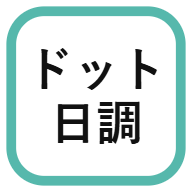
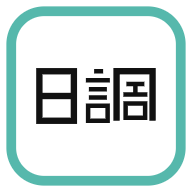
feat: アイコンを描き起こし、タスクのあて先に「自分」を足す
- アイコンはフォント指定をやめ、「日調」の字画を線で組んだベクターにした。
  端末に入っている書体で見た目が変わらなくなり、太さも字間も直接持てる
- ホーム画面に出る名前（short_name）もアイコンと同じ「日調」にそろえた
- タスクを追加のあて先に「自分」を追加。他の選び方は自分を必ず外すため、
  支部に自分しか居ないと、どのあて先を選んでも0人になり送れなかった
- あて先が0人のときの案内を、選び方ごとの言い方に直した。
  「支部の全スタッフ」で0人なら、あて先を選び直しようがなかったため

Changed region(s): [[0.1875, 0.25, 0.8125, 0.75], [0.2812, 0.25, 0.375, 0.3125]]

diff --git a/index.html b/index.html
@@ -5024,6 +5024,7 @@ let REQFORM=null; // {mode, picked:Set相当の配列}
    ※ 残る2つの mode を処理する側のコードは、過去の依頼を読むために残してある */
 const REQ_MODES=[
   {id:'public',label:'誰でも回答OK'},
+  {id:'me',          label:'自分'},
   {id:'all_staff',   label:'支部の全スタッフ'},
   {id:'pick_staff',  label:'スタッフを選ぶ'},
   {id:'by_dept',     label:'部署で選ぶ'},
@@ -5062,6 +5063,9 @@ function branchInterns(){
 function resolveRecipients(){
   const m=REQFORM.mode, picked=REQFORM.picked;
   if(m==='public')return {ids:[ME.id],label:'誰でも回答OK'};
+  /* 自分あて。やることを自分の一覧へ置いておくための口で、
+     他の選び方では自分を必ず外している（下の filter）ので、ここだけ別に用意する */
+  if(m==='me')return {ids:[ME.id],label:'自分'};
   if(m==='all_staff'){
     const list=branchStaff().filter(u=>u.id!==ME.id);  // 自分あては含めない
     return {ids:list.map(u=>u.id),label:'支部の全スタッフ'};
@@ -5103,7 +5107,7 @@ function reqPickerHTML(){
   /* 「支部の全スタッフ」「支部の全インターン生」は選ぶものが無い。
      以前は届く人数を書いた案内を出していたが、説明文はすべて外す方針にしたので
      何も出さない（2026-08-19） */
-  if(m==='all_staff'||m==='all_intern')return '';
+  if(m==='all_staff'||m==='all_intern'||m==='me')return '';
   if(m==='pick_staff'){
     const list=branchStaff().filter(u=>u.id!==ME.id);
     if(!list.length)return `<div class="empty" style="padding:20px"><p>ほかにスタッフがいません。</p></div>`;
@@ -5385,7 +5389,9 @@ function renderRequestForm(keepText){
   const {ids,label}=resolveRecipients();
   const attend=REQFORM.kind==='attend';
 
-  const modes=attend?REQ_MODES:REQ_MODES.filter(o=>o.id!=='public');
+  /* 「誰でも回答OK」は日程を決めるときだけ。「自分」はタスクのときだけ
+     （日程を決めるほうは送った人が必ず回答者に入るので、自分あては意味がない） */
+  const modes=REQ_MODES.filter(o=>o.id==='public'?attend:(o.id==='me'?!attend:true));
   const modeBtns=modes.map(o=>`<button type="button" class="modechip ${REQFORM.mode===o.id?'on':''}"
     onclick="setReqMode('${o.id}')">${o.label}</button>`).join('');
 
@@ -5436,7 +5442,19 @@ async function submitRequest(){
   err.classList.remove('show');
 
   const {ids,label}=resolveRecipients();
-  if(!ids.length){err.textContent='あて先を選んでください';err.classList.add('show');return;}
+  /* あて先が0人のときの言い方を、選び方ごとに変える。
+     「支部の全スタッフ」なのに0人＝支部に自分しか居ない、という意味なので、
+     ひとくちに「あて先を選んでください」と言われても直しようがなかった。
+     自分あては上の resolveRecipients が必ず1人返すので、ここには来ない */
+  if(!ids.length){
+    const m=REQFORM.mode;
+    err.textContent=
+      m==='all_staff'?'支部にほかのスタッフがいません。「自分」を選ぶか、管理者にご連絡ください'
+      :m==='all_intern'?'支部にインターン生がいません'
+      :m==='by_dept'?'部署を選んでください（選んだ部署に人がいないときは別の部署をお試しください）'
+      :'あて先の相手を選んでください';
+    err.classList.add('show');return;
+  }
   if(!subject){err.textContent='件名を入力してください';err.classList.add('show');return;}
 
   const attend=REQFORM.kind==='attend';
